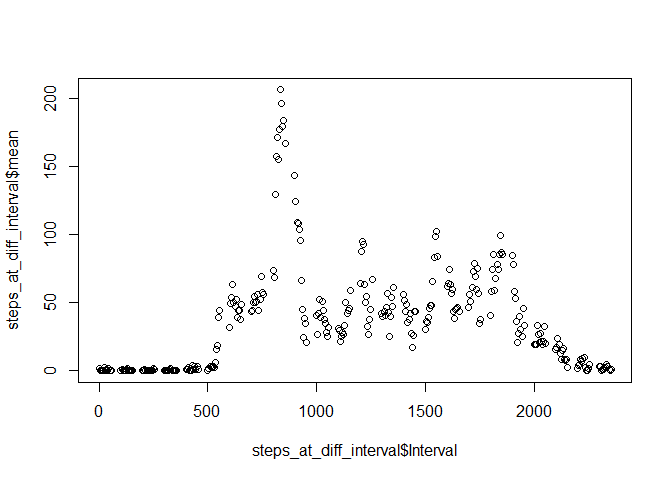
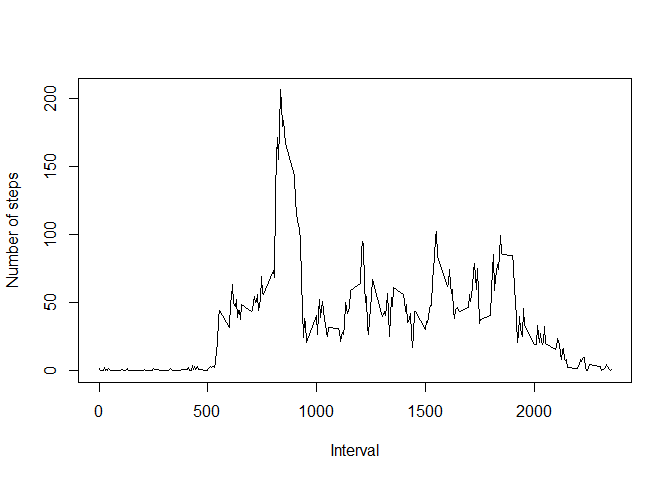
modified for type l

diff --git a/PA1_template.html b/PA1_template.html
@@ -80,70 +80,8 @@ no_of_steps_per_day</code></pre>
 <pre><code>## [1] 10766.19</code></pre>
 <pre class="r"><code>steps_var &lt;- setNames(aggregate(activity_df$steps,list(activity_df$date), FUN = sum, na.rm= TRUE)
                       ,c(&quot;Date&quot;,&quot;Sum&quot;))
-steps_var</code></pre>
-<pre><code>##          Date   Sum
-## 1  2012-10-01     0
-## 2  2012-10-02   126
-## 3  2012-10-03 11352
-## 4  2012-10-04 12116
-## 5  2012-10-05 13294
-## 6  2012-10-06 15420
-## 7  2012-10-07 11015
-## 8  2012-10-08     0
-## 9  2012-10-09 12811
-## 10 2012-10-10  9900
-## 11 2012-10-11 10304
-## 12 2012-10-12 17382
-## 13 2012-10-13 12426
-## 14 2012-10-14 15098
-## 15 2012-10-15 10139
-## 16 2012-10-16 15084
-## 17 2012-10-17 13452
-## 18 2012-10-18 10056
-## 19 2012-10-19 11829
-## 20 2012-10-20 10395
-## 21 2012-10-21  8821
-## 22 2012-10-22 13460
-## 23 2012-10-23  8918
-## 24 2012-10-24  8355
-## 25 2012-10-25  2492
-## 26 2012-10-26  6778
-## 27 2012-10-27 10119
-## 28 2012-10-28 11458
-## 29 2012-10-29  5018
-## 30 2012-10-30  9819
-## 31 2012-10-31 15414
-## 32 2012-11-01     0
-## 33 2012-11-02 10600
-## 34 2012-11-03 10571
-## 35 2012-11-04     0
-## 36 2012-11-05 10439
-## 37 2012-11-06  8334
-## 38 2012-11-07 12883
-## 39 2012-11-08  3219
-## 40 2012-11-09     0
-## 41 2012-11-10     0
-## 42 2012-11-11 12608
-## 43 2012-11-12 10765
-## 44 2012-11-13  7336
-## 45 2012-11-14     0
-## 46 2012-11-15    41
-## 47 2012-11-16  5441
-## 48 2012-11-17 14339
-## 49 2012-11-18 15110
-## 50 2012-11-19  8841
-## 51 2012-11-20  4472
-## 52 2012-11-21 12787
-## 53 2012-11-22 20427
-## 54 2012-11-23 21194
-## 55 2012-11-24 14478
-## 56 2012-11-25 11834
-## 57 2012-11-26 11162
-## 58 2012-11-27 13646
-## 59 2012-11-28 10183
-## 60 2012-11-29  7047
-## 61 2012-11-30     0</code></pre>
-<pre class="r"><code>hist(steps_var$Sum,breaks=61)</code></pre>
+
+hist(steps_var$Sum,breaks=61)</code></pre>
[1 lines of base64/hex data omitted]
 <pre class="r"><code>mean_steps &lt;- mean(steps_var$Sum)
 mean_steps</code></pre>
@@ -158,8 +96,8 @@ median_steps</code></pre>
                                     list(activity_df$interval), FUN = mean, na.rm= TRUE),
                                    c(&quot;Interval&quot;,&quot;mean&quot;))
 
-plot(steps_at_diff_interval$Interval,steps_at_diff_interval$mean)</code></pre>
[1 lines of base64/hex data omitted]
+plot(steps_at_diff_interval$Interval,steps_at_diff_interval$mean,type=&quot;l&quot;,xlab=&quot;Interval&quot;,ylab=&quot;Number of steps&quot;)</code></pre>
[1 lines of base64/hex data omitted]
 <pre class="r"><code>max_steps &lt;- max(steps_at_diff_interval$mean)
 max_steps</code></pre>
 <pre><code>## [1] 206.1698</code></pre>
@@ -181,70 +119,8 @@ activity_df_mod$steps[is.na(activity_df_mod$steps)] &lt;- with(activity_df_mod, 
 
 steps_var_mod &lt;- setNames(aggregate(activity_df_mod$steps,list(activity_df_mod$date), 
                                     FUN = sum, na.rm= TRUE),c(&quot;Date&quot;,&quot;Sum&quot;))
-steps_var_mod</code></pre>
-<pre><code>##          Date   Sum
-## 1  2012-10-01  1141
-## 2  2012-10-02   126
-## 3  2012-10-03 11352
-## 4  2012-10-04 12116
-## 5  2012-10-05 13294
-## 6  2012-10-06 15420
-## 7  2012-10-07 11015
-## 8  2012-10-08  1141
-## 9  2012-10-09 12811
-## 10 2012-10-10  9900
-## 11 2012-10-11 10304
-## 12 2012-10-12 17382
-## 13 2012-10-13 12426
-## 14 2012-10-14 15098
-## 15 2012-10-15 10139
-## 16 2012-10-16 15084
-## 17 2012-10-17 13452
-## 18 2012-10-18 10056
-## 19 2012-10-19 11829
-## 20 2012-10-20 10395
-## 21 2012-10-21  8821
-## 22 2012-10-22 13460
-## 23 2012-10-23  8918
-## 24 2012-10-24  8355
-## 25 2012-10-25  2492
-## 26 2012-10-26  6778
-## 27 2012-10-27 10119
-## 28 2012-10-28 11458
-## 29 2012-10-29  5018
-## 30 2012-10-30  9819
-## 31 2012-10-31 15414
-## 32 2012-11-01  1141
-## 33 2012-11-02 10600
-## 34 2012-11-03 10571
-## 35 2012-11-04  1141
-## 36 2012-11-05 10439
-## 37 2012-11-06  8334
-## 38 2012-11-07 12883
-## 39 2012-11-08  3219
-## 40 2012-11-09  1141
-## 41 2012-11-10  1141
-## 42 2012-11-11 12608
-## 43 2012-11-12 10765
-## 44 2012-11-13  7336
-## 45 2012-11-14  1141
-## 46 2012-11-15    41
-## 47 2012-11-16  5441
-## 48 2012-11-17 14339
-## 49 2012-11-18 15110
-## 50 2012-11-19  8841
-## 51 2012-11-20  4472
-## 52 2012-11-21 12787
-## 53 2012-11-22 20427
-## 54 2012-11-23 21194
-## 55 2012-11-24 14478
-## 56 2012-11-25 11834
-## 57 2012-11-26 11162
-## 58 2012-11-27 13646
-## 59 2012-11-28 10183
-## 60 2012-11-29  7047
-## 61 2012-11-30  1141</code></pre>
-<pre class="r"><code>hist(steps_var_mod$Sum,breaks=61)</code></pre>
+
+hist(steps_var_mod$Sum,breaks=61)</code></pre>
[1 lines of base64/hex data omitted]
 <pre class="r"><code>mean_steps_mod &lt;- mean(steps_var_mod$Sum)
 mean_steps_mod</code></pre>
@@ -270,16 +146,8 @@ activity_df$weekday &lt;- replace(activity_df$weekday,activity_df$weekday==&quot
 activity_df$weekday &lt;- replace(activity_df$weekday,activity_df$weekday==&quot;Saturday&quot;,&quot;weekend&quot;)
 activity_df$weekday &lt;- replace(activity_df$weekday,activity_df$weekday==&quot;Sunday&quot;,&quot;weekend&quot;)
 activity_df$weekday &lt;- factor(activity_df$weekday)
-summary(activity_df)</code></pre>
-<pre><code>##      steps                date          interval         weekday     
-##  Min.   :  0.00   2012-10-01:  288   Min.   :   0.0   weekday:12960  
-##  1st Qu.:  0.00   2012-10-02:  288   1st Qu.: 588.8   weekend: 4608  
-##  Median :  0.00   2012-10-03:  288   Median :1177.5                  
-##  Mean   : 37.38   2012-10-04:  288   Mean   :1177.5                  
-##  3rd Qu.: 12.00   2012-10-05:  288   3rd Qu.:1766.2                  
-##  Max.   :806.00   2012-10-06:  288   Max.   :2355.0                  
-##  NA's   :2304     (Other)   :15840</code></pre>
-<pre class="r"><code>steps_at_diff_interval_mod &lt;- setNames(aggregate(activity_df$steps,
+
+steps_at_diff_interval_mod &lt;- setNames(aggregate(activity_df$steps,
                                     list(activity_df$interval,activity_df$weekday), 
                                     FUN = mean, na.rm= TRUE),
                                    c(&quot;Interval&quot;,&quot;type&quot;,&quot;mean&quot;))

diff --git a/PA1_template.md b/PA1_template.md
@@ -26,75 +26,7 @@ no_of_steps_per_day
 ```r
 steps_var <- setNames(aggregate(activity_df$steps,list(activity_df$date), FUN = sum, na.rm= TRUE)
                       ,c("Date","Sum"))
-steps_var
-```
 
-```
-##          Date   Sum
-## 1  2012-10-01     0
-## 2  2012-10-02   126
-## 3  2012-10-03 11352
-## 4  2012-10-04 12116
-## 5  2012-10-05 13294
-## 6  2012-10-06 15420
-## 7  2012-10-07 11015
-## 8  2012-10-08     0
-## 9  2012-10-09 12811
-## 10 2012-10-10  9900
-## 11 2012-10-11 10304
-## 12 2012-10-12 17382
-## 13 2012-10-13 12426
-## 14 2012-10-14 15098
-## 15 2012-10-15 10139
-## 16 2012-10-16 15084
-## 17 2012-10-17 13452
-## 18 2012-10-18 10056
-## 19 2012-10-19 11829
-## 20 2012-10-20 10395
-## 21 2012-10-21  8821
-## 22 2012-10-22 13460
-## 23 2012-10-23  8918
-## 24 2012-10-24  8355
-## 25 2012-10-25  2492
-## 26 2012-10-26  6778
-## 27 2012-10-27 10119
-## 28 2012-10-28 11458
-## 29 2012-10-29  5018
-## 30 2012-10-30  9819
-## 31 2012-10-31 15414
-## 32 2012-11-01     0
-## 33 2012-11-02 10600
-## 34 2012-11-03 10571
-## 35 2012-11-04     0
-## 36 2012-11-05 10439
-## 37 2012-11-06  8334
-## 38 2012-11-07 12883
-## 39 2012-11-08  3219
-## 40 2012-11-09     0
-## 41 2012-11-10     0
-## 42 2012-11-11 12608
-## 43 2012-11-12 10765
-## 44 2012-11-13  7336
-## 45 2012-11-14     0
-## 46 2012-11-15    41
-## 47 2012-11-16  5441
-## 48 2012-11-17 14339
-## 49 2012-11-18 15110
-## 50 2012-11-19  8841
-## 51 2012-11-20  4472
-## 52 2012-11-21 12787
-## 53 2012-11-22 20427
-## 54 2012-11-23 21194
-## 55 2012-11-24 14478
-## 56 2012-11-25 11834
-## 57 2012-11-26 11162
-## 58 2012-11-27 13646
-## 59 2012-11-28 10183
-## 60 2012-11-29  7047
-## 61 2012-11-30     0
-```
-
-```r
 hist(steps_var$Sum,breaks=61)
 ```
 
@@ -126,7 +58,7 @@ steps_at_diff_interval <- setNames(aggregate(activity_df$steps,
                                     list(activity_df$interval), FUN = mean, na.rm= TRUE),
                                    c("Interval","mean"))
 
-plot(steps_at_diff_interval$Interval,steps_at_diff_interval$mean)
+plot(steps_at_diff_interval$Interval,steps_at_diff_interval$mean,type="l",xlab="Interval",ylab="Number of steps")
 ```
 
 ![](PA1_template_files/figure-html/unnamed-chunk-1-1.png) 
@@ -171,75 +103,7 @@ activity_df_mod$steps[is.na(activity_df_mod$steps)] <- with(activity_df_mod, ave
 
 steps_var_mod <- setNames(aggregate(activity_df_mod$steps,list(activity_df_mod$date), 
                                     FUN = sum, na.rm= TRUE),c("Date","Sum"))
-steps_var_mod
-```
 
-```
-##          Date   Sum
-## 1  2012-10-01  1141
-## 2  2012-10-02   126
-## 3  2012-10-03 11352
-## 4  2012-10-04 12116
-## 5  2012-10-05 13294
-## 6  2012-10-06 15420
-## 7  2012-10-07 11015
-## 8  2012-10-08  1141
-## 9  2012-10-09 12811
-## 10 2012-10-10  9900
-## 11 2012-10-11 10304
-## 12 2012-10-12 17382
-## 13 2012-10-13 12426
-## 14 2012-10-14 15098
-## 15 2012-10-15 10139
-## 16 2012-10-16 15084
-## 17 2012-10-17 13452
-## 18 2012-10-18 10056
-## 19 2012-10-19 11829
-## 20 2012-10-20 10395
-## 21 2012-10-21  8821
-## 22 2012-10-22 13460
-## 23 2012-10-23  8918
-## 24 2012-10-24  8355
-## 25 2012-10-25  2492
-## 26 2012-10-26  6778
-## 27 2012-10-27 10119
-## 28 2012-10-28 11458
-## 29 2012-10-29  5018
-## 30 2012-10-30  9819
-## 31 2012-10-31 15414
-## 32 2012-11-01  1141
-## 33 2012-11-02 10600
-## 34 2012-11-03 10571
-## 35 2012-11-04  1141
-## 36 2012-11-05 10439
-## 37 2012-11-06  8334
-## 38 2012-11-07 12883
-## 39 2012-11-08  3219
-## 40 2012-11-09  1141
-## 41 2012-11-10  1141
-## 42 2012-11-11 12608
-## 43 2012-11-12 10765
-## 44 2012-11-13  7336
-## 45 2012-11-14  1141
-## 46 2012-11-15    41
-## 47 2012-11-16  5441
-## 48 2012-11-17 14339
-## 49 2012-11-18 15110
-## 50 2012-11-19  8841
-## 51 2012-11-20  4472
-## 52 2012-11-21 12787
-## 53 2012-11-22 20427
-## 54 2012-11-23 21194
-## 55 2012-11-24 14478
-## 56 2012-11-25 11834
-## 57 2012-11-26 11162
-## 58 2012-11-27 13646
-## 59 2012-11-28 10183
-## 60 2012-11-29  7047
-## 61 2012-11-30  1141
-```
-
-```r
 hist(steps_var_mod$Sum,breaks=61)
 ```
 
@@ -299,21 +163,7 @@ activity_df$weekday <- replace(activity_df$weekday,activity_df$weekday=="Friday"
 activity_df$weekday <- replace(activity_df$weekday,activity_df$weekday=="Saturday","weekend")
 activity_df$weekday <- replace(activity_df$weekday,activity_df$weekday=="Sunday","weekend")
 activity_df$weekday <- factor(activity_df$weekday)
-summary(activity_df)
-```
 
-```
-##      steps                date          interval         weekday     
-##  Min.   :  0.00   2012-10-01:  288   Min.   :   0.0   weekday:12960  
-##  1st Qu.:  0.00   2012-10-02:  288   1st Qu.: 588.8   weekend: 4608  
-##  Median :  0.00   2012-10-03:  288   Median :1177.5                  
-##  Mean   : 37.38   2012-10-04:  288   Mean   :1177.5                  
-##  3rd Qu.: 12.00   2012-10-05:  288   3rd Qu.:1766.2                  
-##  Max.   :806.00   2012-10-06:  288   Max.   :2355.0                  
-##  NA's   :2304     (Other)   :15840
-```
-
-```r
 steps_at_diff_interval_mod <- setNames(aggregate(activity_df$steps,
                                     list(activity_df$interval,activity_df$weekday), 
                                     FUN = mean, na.rm= TRUE),
